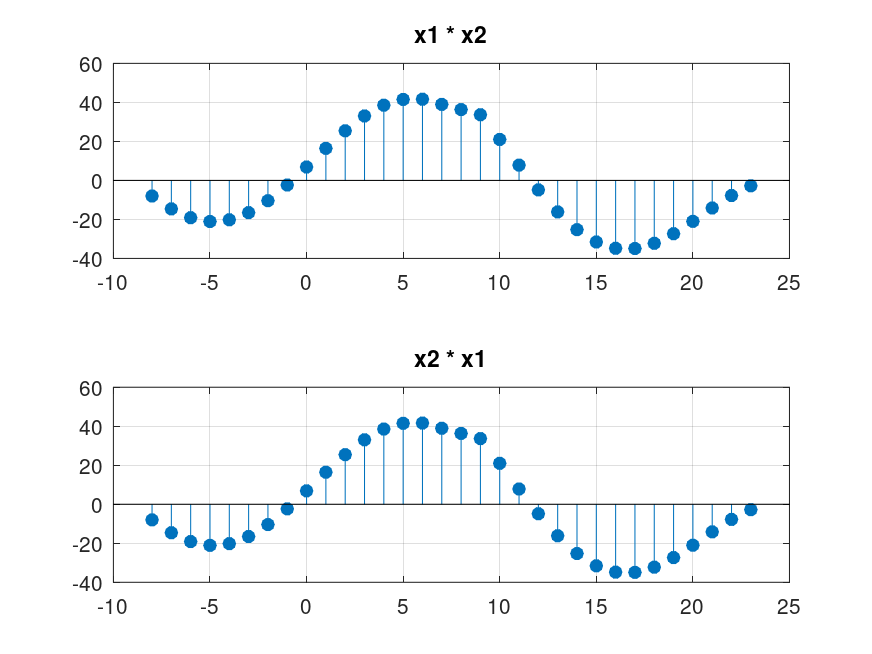
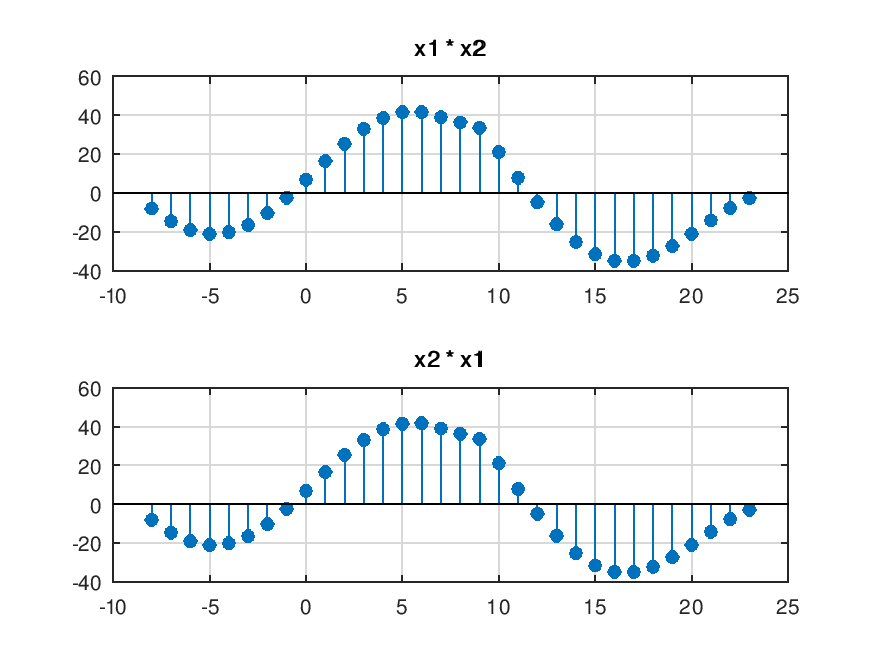
final 3

diff --git a/relatorio_3/codigos/conv_m.m b/relatorio_3/codigos/conv_m.m
@@ -6,6 +6,16 @@ function [y, ny] = conv_m(x, nx, h, nh)
   % x = input sequence with support nx
   % h = impulse response with support nh
   
+  % Se nx for apenas o índice de início, gera o vetor completo
+  if length(nx) == 1
+    nx = nx:(nx + length(x) - 1);
+  end
+  
+  % Se nh for apenas o índice de início, gera o vetor completo
+  if length(nh) == 1
+    nh = nh:(nh + length(h) - 1);
+  end
+
   nyb = nx(1) + nh(1);
   nye = nx(end) + nh(end);
   ny = nyb:nye;
